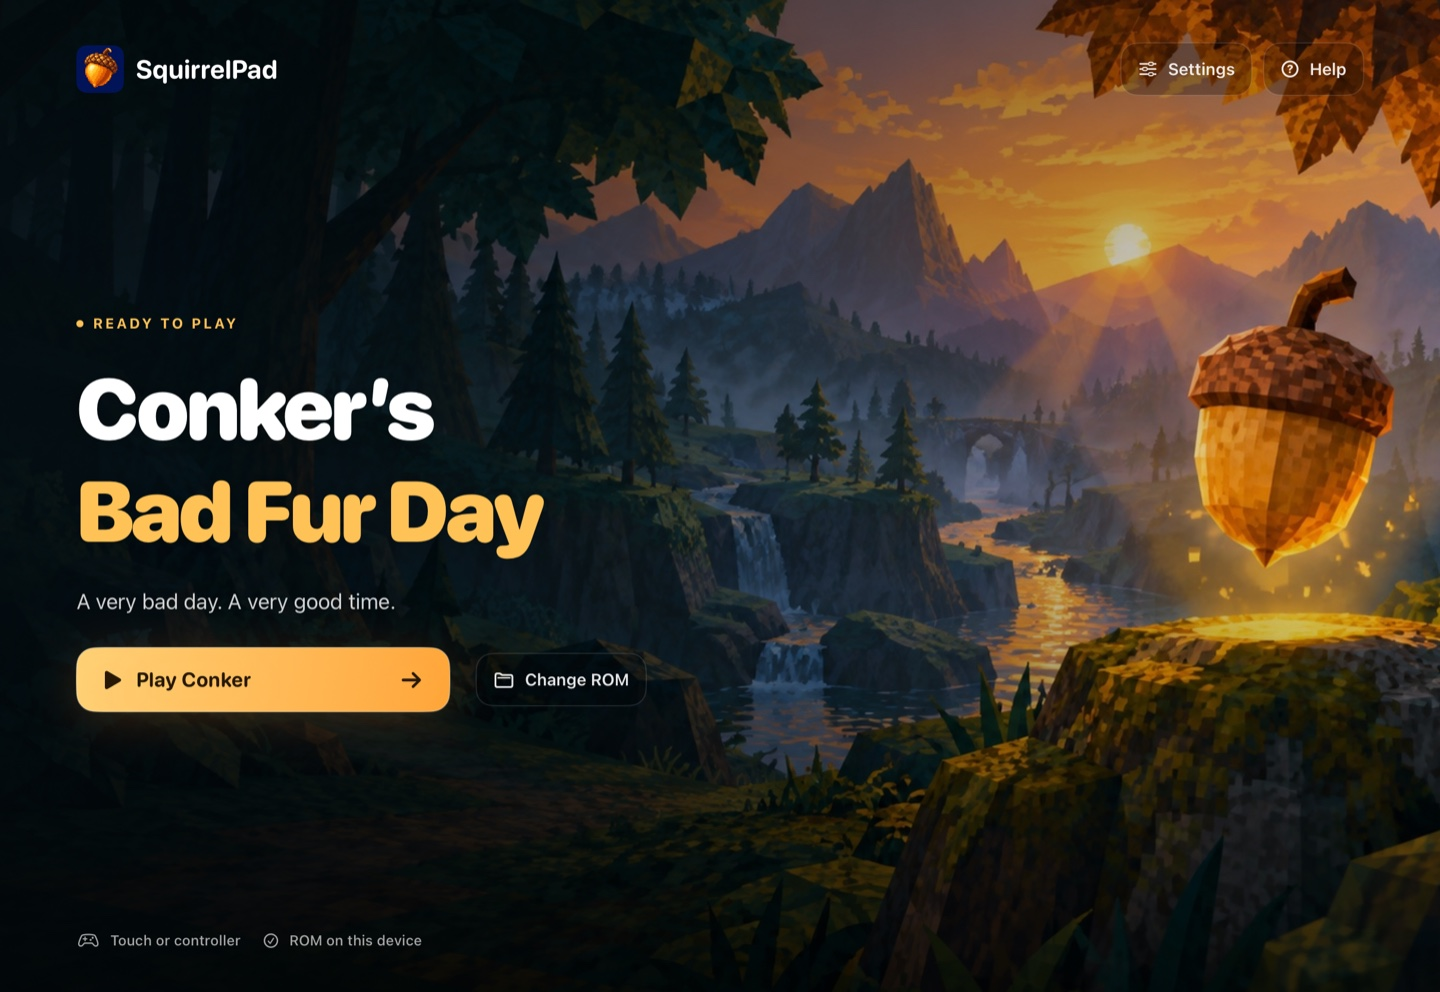
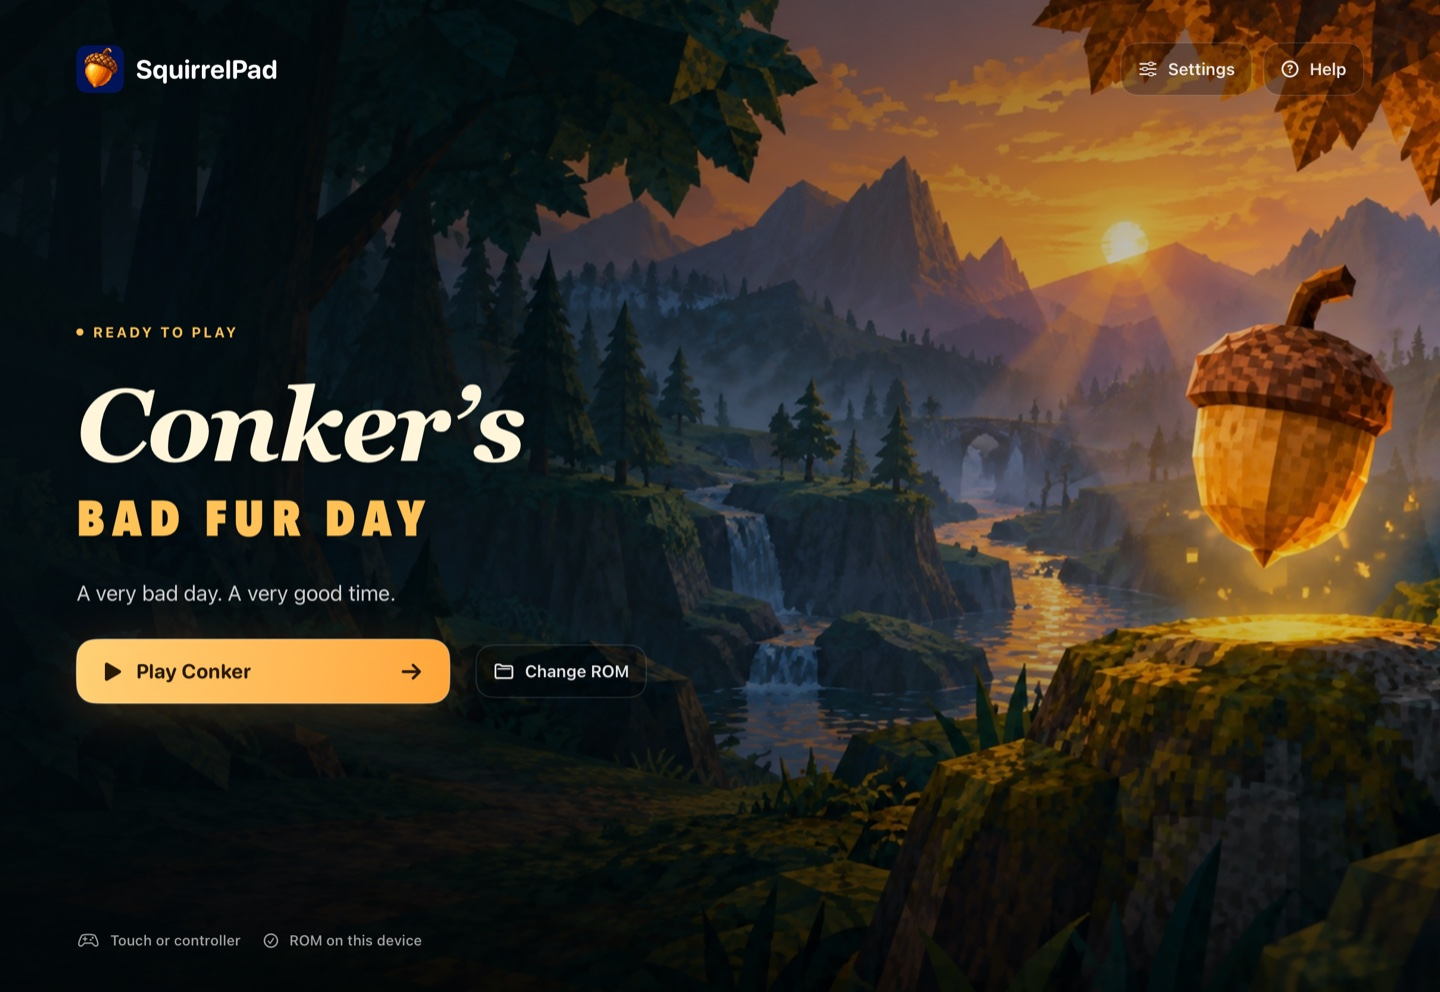
Refine title and settings, and fix physical iPad Metal startup

diff --git a/Sources/SquirrelPadApp.swift b/Sources/SquirrelPadApp.swift
@@ -324,7 +324,11 @@ struct SquirrelPadApp: App {
         return VStack(spacing: 0) {
             HStack(spacing: 12) {
                 AcornMark(size: 38)
-                Text("Settings").font(.system(size: compact ? 22 : 26, weight: .bold, design: .rounded))
+                VStack(alignment: .leading, spacing: 3) {
+                    Text("Settings").font(.system(size: compact ? 22 : 26, weight: .bold))
+                    Text(session.running ? "Conker’s Bad Fur Day · Paused" : "SquirrelPad")
+                        .font(.caption).foregroundStyle(SquirrelPadTheme.secondary)
+                }
                 Spacer()
                 Button { menuOpen = false } label: {
                     Label(session.running && !showingLauncher ? "Resume" : "Done",
@@ -354,14 +358,66 @@ struct SquirrelPadApp: App {
                             if settingsSection == .general {
                                 generalSettings
                             } else if settingsSection == .controls {
-                                SettingsCard(title: "Controls", symbol: "gamecontroller") {
-                                    Toggle("Touch Controls", isOn: $touchEnabled)
+                                SettingsCard(title: "Touch controls", symbol: "hand.tap") {
+                                    Toggle("Show Touch Controls", isOn: $touchEnabled)
                                         .tint(SquirrelPadTheme.accent)
-                                    Text("Show the N64 controls on the game screen.")
+                                    Text("Use the on-screen N64 controls. Layouts are saved separately for iPhone and iPad.")
                                         .font(.subheadline)
-                                        .foregroundStyle(.white.opacity(0.68))
+                                        .foregroundStyle(SquirrelPadTheme.secondary)
+                                    Button("Edit Touch Layout") { beginLayoutEdit(compact: compact) }
+                                        .buttonStyle(SquirrelPadButtonStyle(primary: true))
+                                        .disabled(!touchEnabled || !session.running || showingLauncher)
+                                    Button("Restore Touch Defaults") { confirmResetTouch = true }
+                                        .buttonStyle(SquirrelPadButtonStyle())
+                                    if !session.running || showingLauncher {
+                                        Text("Start or resume the game to move and resize controls.")
+                                            .font(.caption).foregroundStyle(SquirrelPadTheme.secondary)
+                                    }
+                                }
+                                SettingsCard(title: "Size & appearance", symbol: "slider.horizontal.3") {
+                                    VStack(alignment: .leading, spacing: 5) {
+                                        HStack {
+                                            Text("Control Size")
+                                            Spacer()
+                                            Text("\(Int((controlScale * 100).rounded()))%")
+                                                .monospacedDigit()
+                                        }
+                                        Slider(value: $controlScale, in: 0.8...1.2)
+                                            .tint(SquirrelPadTheme.accent)
+                                            .accessibilityLabel("Control Size")
+                                            .accessibilityValue("\(Int((controlScale * 100).rounded())) percent")
+                                    }
+                                    .disabled(!touchEnabled)
+                                    Divider()
+                                    Toggle("Transparent Controls", isOn: $touchTransparency)
+                                        .tint(SquirrelPadTheme.accent)
+                                        .disabled(!touchEnabled)
+                                    if touchTransparency {
+                                        VStack(alignment: .leading, spacing: 5) {
+                                            HStack {
+                                                Text("Control Opacity")
+                                                Spacer()
+                                                Text("\(Int((touchOpacity * 100).rounded()))%")
+                                                    .monospacedDigit()
+                                            }
+                                            Slider(value: $touchOpacity, in: 0.25...1.0)
+                                                .tint(SquirrelPadTheme.accent)
+                                                .accessibilityLabel("Control Opacity")
+                                                .accessibilityValue("\(Int((touchOpacity * 100).rounded())) percent")
+                                        }
+                                        .disabled(!touchEnabled)
+                                    }
+                                    Divider()
+                                    Text("Button Visibility")
+                                        .font(.headline)
+                                    Toggle("D-pad Buttons", isOn: $showDpad)
+                                        .tint(SquirrelPadTheme.accent)
+                                    Toggle("C Buttons", isOn: $showCButtons)
+                                        .tint(SquirrelPadTheme.accent)
+                                }
+                                SettingsCard(title: "Game controller", symbol: "gamecontroller") {
                                     HStack {
-                                        Text("Game Controller")
+                                        Text("Connected controller")
                                         Spacer()
                                         Text(controllerInput.connectedName ?? "Not connected")
                                             .foregroundStyle(.white.opacity(0.68))
@@ -446,53 +502,6 @@ struct SquirrelPadApp: App {
                                                 .padding(.top, 4)
                                         }
                                     }
-                                    Divider()
-                                    Text("Touch Layout")
-                                        .font(.headline)
-                                    VStack(alignment: .leading, spacing: 5) {
-                                        HStack {
-                                            Text("Control Size")
-                                            Spacer()
-                                            Text("\(Int((controlScale * 100).rounded()))%")
-                                                .monospacedDigit()
-                                        }
-                                        Slider(value: $controlScale, in: 0.8...1.2)
-                                            .tint(SquirrelPadTheme.accent)
-                                            .accessibilityLabel("Control Size")
-                                            .accessibilityValue("\(Int((controlScale * 100).rounded())) percent")
-                                    }
-                                    .disabled(!touchEnabled)
-                                    Divider()
-                                    Toggle("Transparent Controls", isOn: $touchTransparency)
-                                        .tint(SquirrelPadTheme.accent)
-                                        .disabled(!touchEnabled)
-                                    if touchTransparency {
-                                        VStack(alignment: .leading, spacing: 5) {
-                                            HStack {
-                                                Text("Control Opacity")
-                                                Spacer()
-                                                Text("\(Int((touchOpacity * 100).rounded()))%")
-                                                    .monospacedDigit()
-                                            }
-                                            Slider(value: $touchOpacity, in: 0.25...1.0)
-                                                .tint(SquirrelPadTheme.accent)
-                                                .accessibilityLabel("Control Opacity")
-                                                .accessibilityValue("\(Int((touchOpacity * 100).rounded())) percent")
-                                        }
-                                        .disabled(!touchEnabled)
-                                    }
-                                    Divider()
-                                    Text("Button Visibility")
-                                        .font(.headline)
-                                    Toggle("D-pad Buttons", isOn: $showDpad)
-                                        .tint(SquirrelPadTheme.accent)
-                                    Toggle("C Buttons", isOn: $showCButtons)
-                                        .tint(SquirrelPadTheme.accent)
-                                    Button("Edit Layout") { beginLayoutEdit(compact: compact) }
-                                        .buttonStyle(SquirrelPadButtonStyle(primary: true))
-                                        .disabled(!touchEnabled || !session.running || showingLauncher)
-                                    Button("Restore Touch Defaults") { confirmResetTouch = true }
-                                        .buttonStyle(SquirrelPadButtonStyle())
                                 }
                             } else if settingsSection == .audio {
                                 SettingsCard(title: "Game audio", symbol: "speaker.wave.2") {
@@ -536,7 +545,7 @@ struct SquirrelPadApp: App {
                 if session.running {
                     Text("Return to the launcher to pause here. Resume Game brings you back to this session.")
                         .font(.subheadline).foregroundStyle(SquirrelPadTheme.secondary)
-                    Button("Return to SquirrelPad") {
+                    Button("Return to Launcher") {
                         showingLauncher = true
                         menuOpen = false
                     }
@@ -580,15 +589,22 @@ struct SquirrelPadApp: App {
 
     private func settingsTab(_ title: String, symbol: String, section: SettingsSection, compact: Bool) -> some View {
         Button { settingsSection = section } label: {
-            Label(title, systemImage: symbol)
-                .font(.system(size: compact ? 15 : 17, weight: .semibold))
-                .frame(maxWidth: .infinity, minHeight: 44, alignment: .leading)
-                .padding(.horizontal, 10)
-                .background(settingsSection == section ? SquirrelPadTheme.accent : .clear,
-                            in: RoundedRectangle(cornerRadius: 10))
+            HStack(spacing: 10) {
+                Image(systemName: symbol)
+                    .frame(width: 22)
+                    .foregroundStyle(settingsSection == section ? SquirrelPadTheme.accent : SquirrelPadTheme.secondary)
+                Text(title)
+                Spacer(minLength: 0)
+            }
+            .font(.system(size: compact ? 15 : 17, weight: .semibold))
+            .frame(maxWidth: .infinity, minHeight: 48, alignment: .leading)
+            .padding(.horizontal, 10)
+            .background(settingsSection == section ? SquirrelPadTheme.accent.opacity(0.18) : .clear,
+                        in: RoundedRectangle(cornerRadius: 10))
         }
         .buttonStyle(.plain)
         .accessibilityAddTraits(settingsSection == section ? .isSelected : [])
+        .accessibilityIdentifier("squirrelpad-settings-\(title.lowercased())")
     }
 
     private func restoreTouchDefaults() {

diff --git a/Sources/SquirrelPadShell.swift b/Sources/SquirrelPadShell.swift
@@ -150,12 +150,21 @@ struct SquirrelPadLauncher: View {
                     .tracking(2)
             }
             .foregroundStyle(gold)
-            (Text("Conker’s\n").foregroundStyle(.white) + Text("Bad Fur Day").foregroundStyle(gold))
-                .font(.system(size: compact ? 44 : wide ? 72 : 50, weight: .black, design: .rounded))
-                .tracking(compact ? -1.5 : -2.5)
-                .lineSpacing(-4)
-                .fixedSize(horizontal: false, vertical: true)
-                .shadow(color: .black.opacity(0.2), radius: 12, y: 4)
+            VStack(alignment: .leading, spacing: compact ? 0 : 2) {
+                Text("Conker’s")
+                    .font(.custom("Georgia-BoldItalic", fixedSize: compact ? 55 : wide ? 86 : 60))
+                    .tracking(-2)
+                    .foregroundStyle(Color(red: 1, green: 0.96, blue: 0.86))
+                Text("BAD FUR DAY")
+                    .font(.custom("AvenirNextCondensed-Heavy", fixedSize: compact ? 29 : 42))
+                    .tracking(compact ? 4 : 6)
+                    .foregroundStyle(gold)
+            }
+            .lineLimit(1)
+            .minimumScaleFactor(0.7)
+            .shadow(color: .black.opacity(0.35), radius: 10, y: 4)
+            .accessibilityElement(children: .ignore)
+            .accessibilityLabel("Conker’s Bad Fur Day")
             Text(paused ? "A little breather. Then back to the trouble."
                  : hasROM ? "A very bad day. A very good time."
                  : "Bring your own US ROM. We’ll take it from here.")
@@ -245,12 +254,16 @@ struct SettingsCard<Content: View>: View {
 
     var body: some View {
         VStack(alignment: .leading, spacing: 16) {
-            Label(title, systemImage: symbol)
-                .font(.headline)
+            Label {
+                Text(title).font(.headline)
+            } icon: {
+                Image(systemName: symbol).foregroundStyle(SquirrelPadTheme.accent)
+            }
             content()
         }
         .padding(20)
         .frame(maxWidth: .infinity, alignment: .leading)
         .background(.white.opacity(0.045), in: RoundedRectangle(cornerRadius: 16))
+        .overlay(RoundedRectangle(cornerRadius: 16).stroke(.white.opacity(0.06)))
     }
 }

diff --git a/docs/HARDWARE_TEST_2026-10-07.md b/docs/HARDWARE_TEST_2026-10-07.md
@@ -1,0 +1,60 @@
+# Title, menu, and first hardware build
+
+The launcher pairs Georgia Bold Italic for “Conker’s” with a condensed,
+tracked “BAD FUR DAY” subtitle. Both are system fonts, with no downloaded font
+dependency. The README launcher image reflects this version.
+
+The menu retains the General / Controls / Audio / About sidebar, persistent
+Resume button, and native controls. This iteration separates touch controls,
+size and appearance, and controller bindings into distinct cards. Edit Touch
+Layout is visible first, and the menu explains why it is unavailable before
+gameplay. The header identifies the paused game; selected sidebar rows use a
+subtle blue highlight. Existing bindings and session lifecycle are retained.
+References: SpaghettiPad's Controls sidebar and touch settings, plus KartPad's
+native grouped settings and layout-editor flow. This is pattern parity, not a
+claim that SquirrelPad implements every setting from those projects.
+
+## Hardware finding and fix
+
+The initial signed build exited on the attached M2 iPad Pro with
+`-[AGXG14GDevice location]: unrecognized selector`. Plume queried the macOS-only
+`MTLDevice.location` selector on physical iOS. The existing Simulator branch
+avoided this call, which explains why Simulator launch passed.
+
+`plume-ios-device-type.patch` classifies physical iOS GPUs as integrated,
+retains the Simulator virtual-device branch, and preserves macOS detection.
+It is part of the normal pinned patch stack. Full stack replay and the three
+patch-stack regression tests passed.
+
+## Verification
+
+- Both final mobile SDK builds and bundle audits passed: 30 files, 24 notices,
+  no excluded-symbol or private-file findings. Signed device bundle verification
+  passed with `codesign --verify --deep --strict`.
+- Inspected title layout on iPad and iPhone Simulators. On iPad Simulator,
+  checked Settings, Controls, transparency on/off, Audio, Done, Play, three-dot
+  menu, and Edit Touch Layout / Done. No custom layout or binding was reset.
+- Installed on the attached iPad Pro 12.9-inch (6th generation), iPadOS 27.0.1.
+  There was no SquirrelPad installation before this task. Before replacing the
+  first crashing build, Documents and Library were backed up; they contained
+  only OS-generated caches/snapshots, with no imported ROM or saves.
+- The repaired build visibly launched. The user's local ROM was copied into
+  this app's Documents folder and imported through the normal Files picker.
+  The opening animation and GAME1 selection screen rendered. Logs recorded
+  game-renderer initialization and nonzero audio PCM consumption, which does
+  not establish audible quality.
+- Device Hub remote taps did not produce a visible response from the in-game
+  menu or A button after startup. Direct on-device input confirmation is still
+  needed to distinguish an app issue from remote-input limitations. Sustained
+  gameplay, controller input, audio listening, and save fidelity remain open.
+
+| Local artifact | SHA-256 |
+| --- | --- |
[4 lines of base64/hex data omitted]
+
+The signed package is `work/SquirrelPad-hardware-test.ipa`. Logs, signatures,
+container backup, device inventory, and build reports remain local under
+`work/title-menu-hardware/`. No personal binary or game input is published.

diff --git a/docs/ACCEPTANCE.md b/docs/ACCEPTANCE.md
@@ -34,7 +34,7 @@ remains. See [SOURCE_BOUNDARY.md](SOURCE_BOUNDARY.md).
 | G4 sound/input | Ordinary Start/A pause/resume and menu return; diagnostic controller movement/camera/interaction/jump | Ordinary sustained/simultaneous touch and release; controller attach/remove on both classes; audible categories/quality; remaining compact-menu scrolling/reference behavior |
 | G5 persistence/lifecycle | Current normal-build changed-volume cold relaunch passed on both 18.5 classes; background clock/audio recovery recorded; current short-write fix and first-field cold reload on both classes; diagnostic GAME2 tutorial payload restored | Two distinct progressed checkpoints/reloads on both classes; remaining interruption/memory-pressure cases; earlier-build evidence needs qualification for the final build |
 | G6 gameplay | Diagnostic Birdy lesson/cure and tutorial reload; isolated jump shown by video | Full iPad story through ending, representative iPhone chapters, checkpoint reloads and demanding-scene timing/fidelity |
-| G7 hardware | No physical-device acceptance | Blocked by input: iPad/iPhone and signing; eventual touch feel, controllers, audio routes, sleep/interruption and sustained play |
+| G7 hardware | Signed M2 iPad install, Files import, opening animation and GAME1 screen on iPadOS 27.0.1; see [hardware test](HARDWARE_TEST_2026-10-07.md) | Direct on-device input confirmation, touch feel, controllers, audio routes, sleep/interruption and sustained play |
 | G8 handoff | Independent replay recorded; current audits, notices and setup instructions | Fresh final source/tools/generation replay passed; clean host and both mobile SDK builds plus audits passed; final source/notice review remains; signed local install, completed final acceptance matrix; public distribution requires separate decision |
 
 iOS 26.5 phone/tablet startup and UI checks were recorded with an earlier normal

diff --git a/docs/BUILDING.md b/docs/BUILDING.md
@@ -162,8 +162,9 @@ Outputs:
 - `work/build-app-replay-iphonesimulator/Release-iphonesimulator/SquirrelPad.app`
 - `work/build-app-replay-iphoneos/Release-iphoneos/SquirrelPad.app`
 
-The device output is **unsigned** and is not a physical-device installable
-handoff. Signing and hardware installation remain pending. After changing
+The device output is **unsigned** and requires your own development signing
+before installation. A personal signed install is recorded in the
+[hardware test](HARDWARE_TEST_2026-10-07.md). After changing
 CMake resources, explicitly configure before building: Xcode's regeneration
 phase can otherwise finish successfully using the old resource list.
 
@@ -255,5 +256,6 @@ Both SDK bundles currently contain 24 upstream notice texts. See
 inventory and its limits. Runtime GPL components and ROM-derived executable
 content remain part of the build; absence of a `.z64` file is not distribution
 clearance. Public release, TestFlight and App Store delivery require a separate
-decision. No physical device is presently available; Chris's remaining hardware
-checks include touch feel, controllers, audio routes/listening and sustained play.
+decision. The first signed iPad install and startup are recorded in the hardware
+test; remaining checks include direct touch input, controllers, audio
+routes/listening and sustained play.

diff --git a/docs/STATUS.md b/docs/STATUS.md
@@ -1,6 +1,6 @@
 # SquirrelPad evidence ledger
 
-Updated 2026-10-02. Work the lowest unmet goal in [GOAL_LOOP.md](GOAL_LOOP.md). The private ROM, generated game code, builds, logs, saves and gameplay captures stay under ignored `ref/` or `work/`.
+Updated 2026-10-07. See the [latest hardware test](HARDWARE_TEST_2026-10-07.md) for the title/menu refinement, physical-iPad startup fix, signed install, and remaining input check. Historical evidence follows. The private ROM, generated game code, builds, logs, saves and diagnostic gameplay captures stay under ignored `ref/` or `work/`; selected README images are documented in [SOURCE_BOUNDARY](SOURCE_BOUNDARY.md).
 
 **Current continuation:** clean replay now builds macOS and both mobile SDKs;
 package audits and real save-writer fault regression pass. The new normal app

diff --git a/README.md b/README.md
@@ -26,9 +26,11 @@ editable touch layouts, controller bindings, and local EEPROM saves.
 </p>
 
 <details>
-<summary><strong>See the launcher</strong></summary>
+<summary><strong>See the launcher and settings</strong></summary>
 
 ![SquirrelPad's woodland launcher with Play Conker, Settings, and Help](docs/screenshots/ipad-launcher.jpg)
+
+![SquirrelPad's three-dot menu with Resume, sidebar navigation, and grouped touch settings](docs/screenshots/ipad-settings.jpg)
 
 </details>
 
